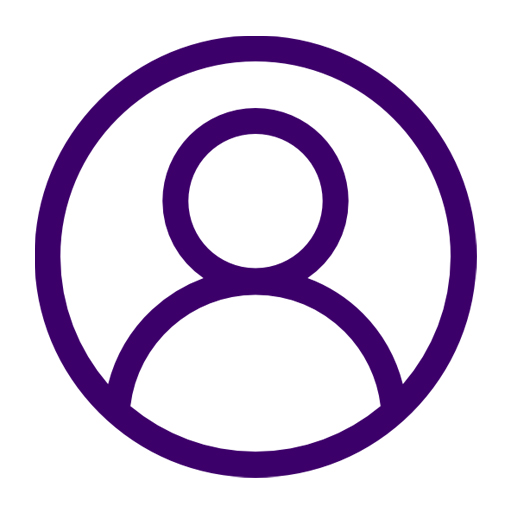
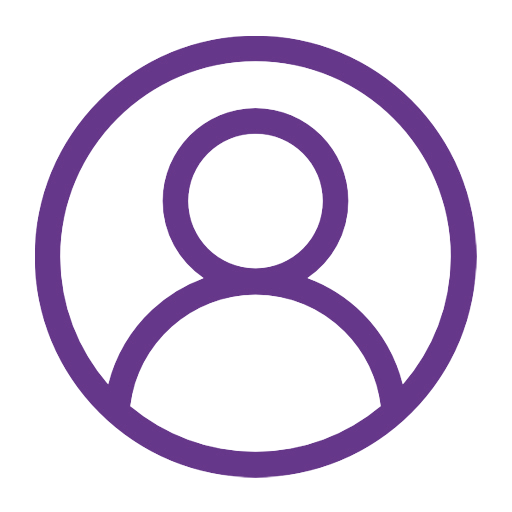
Update project version and marketing version; enhance UI for account deletion and OTP verification

Changed region(s): [[0.0625, 0.0625, 0.9375, 0.9375]]

diff --git a/src/screens/MyAccount.js b/src/screens/MyAccount.js
@@ -171,25 +171,6 @@ function AccountScreen(props) {
                             source={require('../../assets/right-arrow.png')} />
                     </TouchableOpacity>
                 </View>
-                {Platform.OS === 'ios' && (
-                <View style={{ padding: 10 }}>
-                    <TouchableOpacity
-                        onPress={() => navigation.navigate("DeleteAccount")}
-                        style={{ justifyContent: 'space-between', borderRadius: 10, borderWidth: 1, borderColor: "#FC0033", flexDirection: 'row', paddingVertical: 15, marginTop: 0, paddingHorizontal: 10, }}>
-                        <View style={{ alignSelf: 'center', flexDirection: 'row' }}>
-                            <Image
-                                style={{ width: 30, height: 30, tintColor: '#FC0033' }}
-                                source={require('../../assets/profile-icon.png')}
-                            />
-                            <Text style={{ fontSize: 18, marginLeft: 20, fontFamily: 'Poppins-SemiBold', color: '#FC0033', alignSelf: 'center' }}>{"Delete Account"}</Text>
-
-                        </View>
-                        <Image
-                            style={{ marginLeft: 10, alignSelf: 'center', width: 18, height: 18 }}
-                            source={require('../../assets/right-arrow.png')} />
-                    </TouchableOpacity>
-                </View>
-                )}
                 <View style={{ padding: 10 }}>
                     <TouchableOpacity
                         onPress={() => {
@@ -212,7 +193,13 @@ function AccountScreen(props) {
                     </TouchableOpacity>
                 </View>
             </ScrollView>
-
+            {Platform.OS === 'ios' && (
+            <TouchableOpacity
+                onPress={() => navigation.navigate("DeleteAccount")}
+                style={{ paddingVertical: 20, alignItems: 'center' }}>
+                <Text style={{ fontSize: 13, fontFamily: 'Poppins-SemiBold', color: '#3b006a', textDecorationLine: 'underline' }}>{"Delete Account"}</Text>
+            </TouchableOpacity>
+            )}
         </View >
     );
 }

diff --git a/src/screens/DeleteAccount.js b/src/screens/DeleteAccount.js
@@ -44,14 +44,19 @@ function DeleteAccountScreen(props) {
     const doLogout = () => {
         storeData("loginData", "");
         storeData("isLogin", "false");
-        changeAuthState(false);
+        // Navigate out BEFORE flipping isLoggedIn: changing the auth state makes
+        // UserNavigator swap the stack it renders, which unmounts this screen and
+        // leaves its navigation object with no navigator left to handle the action.
         if (isLoggedIn) {
-            navigation.navigate("HomeStack");
+            // "HomeStack" is a tab inside the "Tabs" screen of the root stack, so
+            // it has to be addressed as a nested route.
+            navigation.navigate("Tabs", { screen: "HomeStack" });
         } else if (navigation.canGoBack()) {
             navigation.goBack();
         } else {
             navigation.navigate("OTPLogin");
         }
+        changeAuthState(false);
     };
 
     const requestDeleteAccount = () => {

diff --git a/src/screens/OTPVerifyNew.js b/src/screens/OTPVerifyNew.js
@@ -22,6 +22,11 @@ const OTPVerificationScreen = (props) => {
   const [message, setmessage] = useState('');
 
   useEffect(() => {
+            alert("Hello")
+
+  }, []);
+
+  useEffect(() => {
     let intervalId;
 
     if (countdown > 0) {
@@ -48,7 +53,7 @@ const OTPVerificationScreen = (props) => {
       body: raw,
       redirect: 'follow'
     };
-
+console.log("URL , ", `${server}otpverification`)
     fetch(`${server}otpverification`, requestOptions)
       .then(response => response.json())
       .then(result => {
@@ -102,6 +107,7 @@ const OTPVerificationScreen = (props) => {
       });
   }
   const handleResend = async () => {
+    alert("Resend OTP")
     var myHeaders = new Headers();
     myHeaders.append("Content-Type", "application/json");
 

diff --git a/src/screens/LoginWithOTPNew.js b/src/screens/LoginWithOTPNew.js
@@ -122,14 +122,14 @@ const OTPLoginScreen = (props) => {
                     // disabled={!validNumber}
                 />}
             </View>
-            {Platform.OS === 'ios' && (
+            {/* {Platform.OS === 'ios' && (
             <TouchableOpacity
                 onPress={() => navigation.navigate("DeleteAccount")}
                 style={styles.deleteLinkContainer}
             >
                 <Text style={styles.deleteLinkText}>Delete your account</Text>
             </TouchableOpacity>
-            )}
+            )} */}
         </View>
     );
 };

diff --git a/src/components/GroceryHomeScreen.js b/src/components/GroceryHomeScreen.js
@@ -571,6 +571,7 @@ const styles = StyleSheet.create({
   horizontalScrollContent: {
     paddingHorizontal: 15,
     paddingRight: 20,
+    alignItems: 'flex-start',
   },
 });
 
